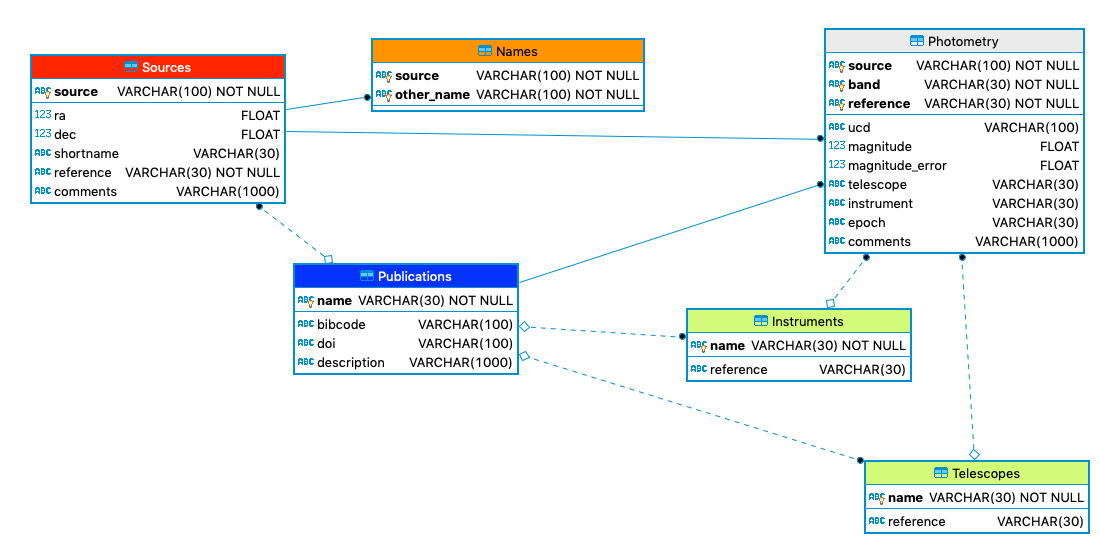
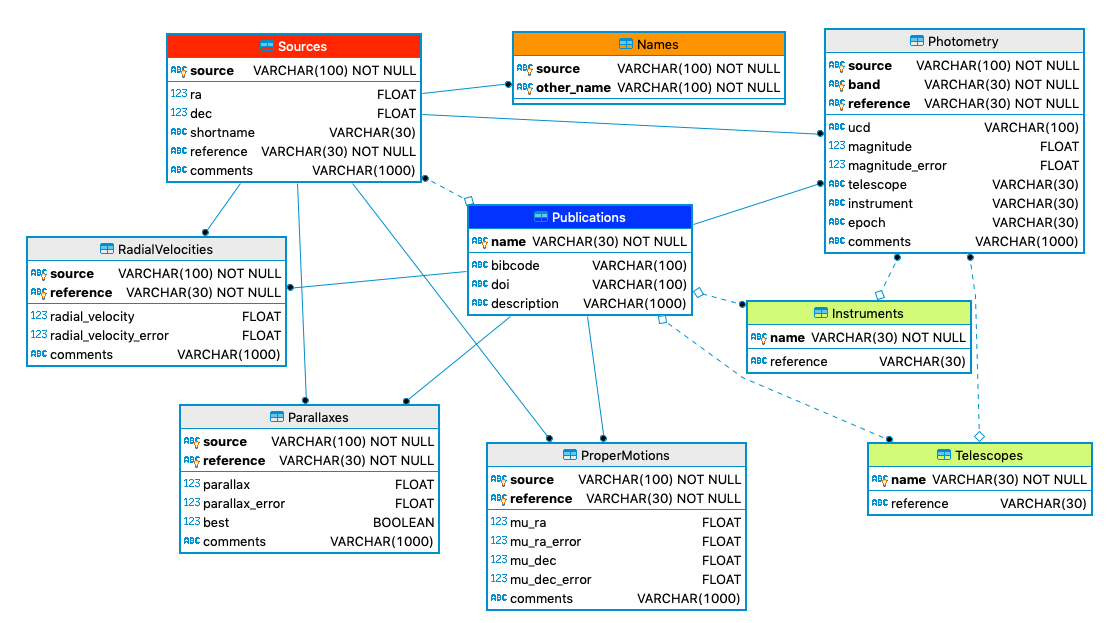
updating readme and schema figure

diff --git a/README.md b/README.md
@@ -24,7 +24,7 @@ A conda environment file exists for convenience.
 pip install git+https://github.com/dr-rodriguez/AstrodbKit2
 ```
 
-5. Create the database. If you already have a database (eg, a binary db file with SQLite), skip to the next step. 
+5. Create the database. If you already have a database (eg, a binary db file with SQLite), **skip to the next step**. 
 
 ```python
 from astrodbkit2.astrodb import create_database
@@ -48,3 +48,10 @@ db = Database(connection_string)
 ```python
 db.load_database('data')
 ```
+
+## Database Schema
+
+The database schema can be found in simple/schema.py using the SQLAlchemy ORM.
+
+Here is a graphical representation of that:
+![schema](documentation/figures/schema.png)
